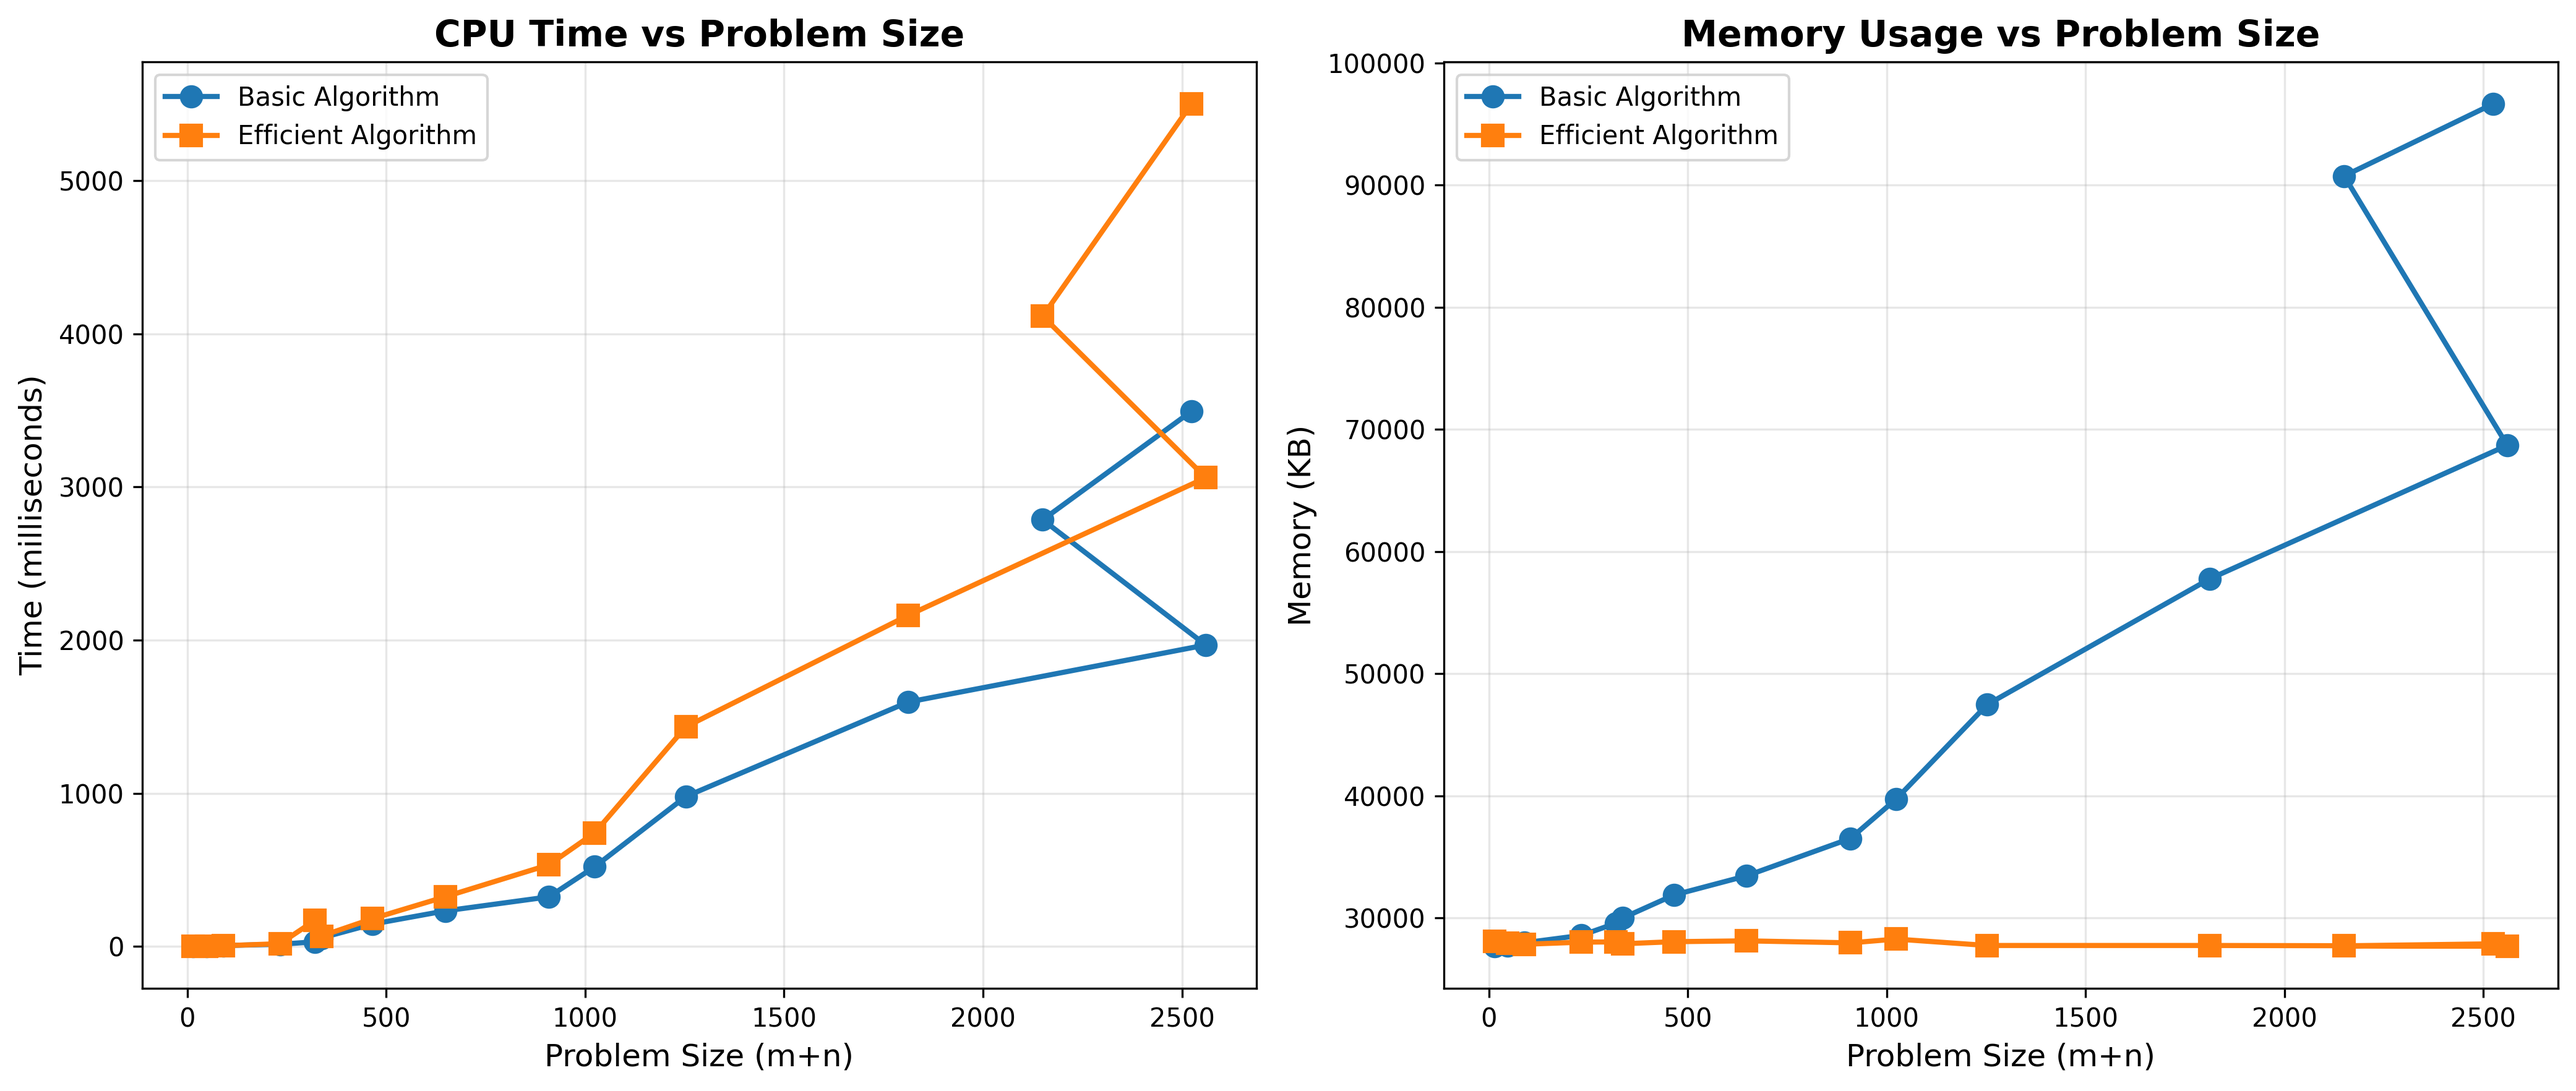
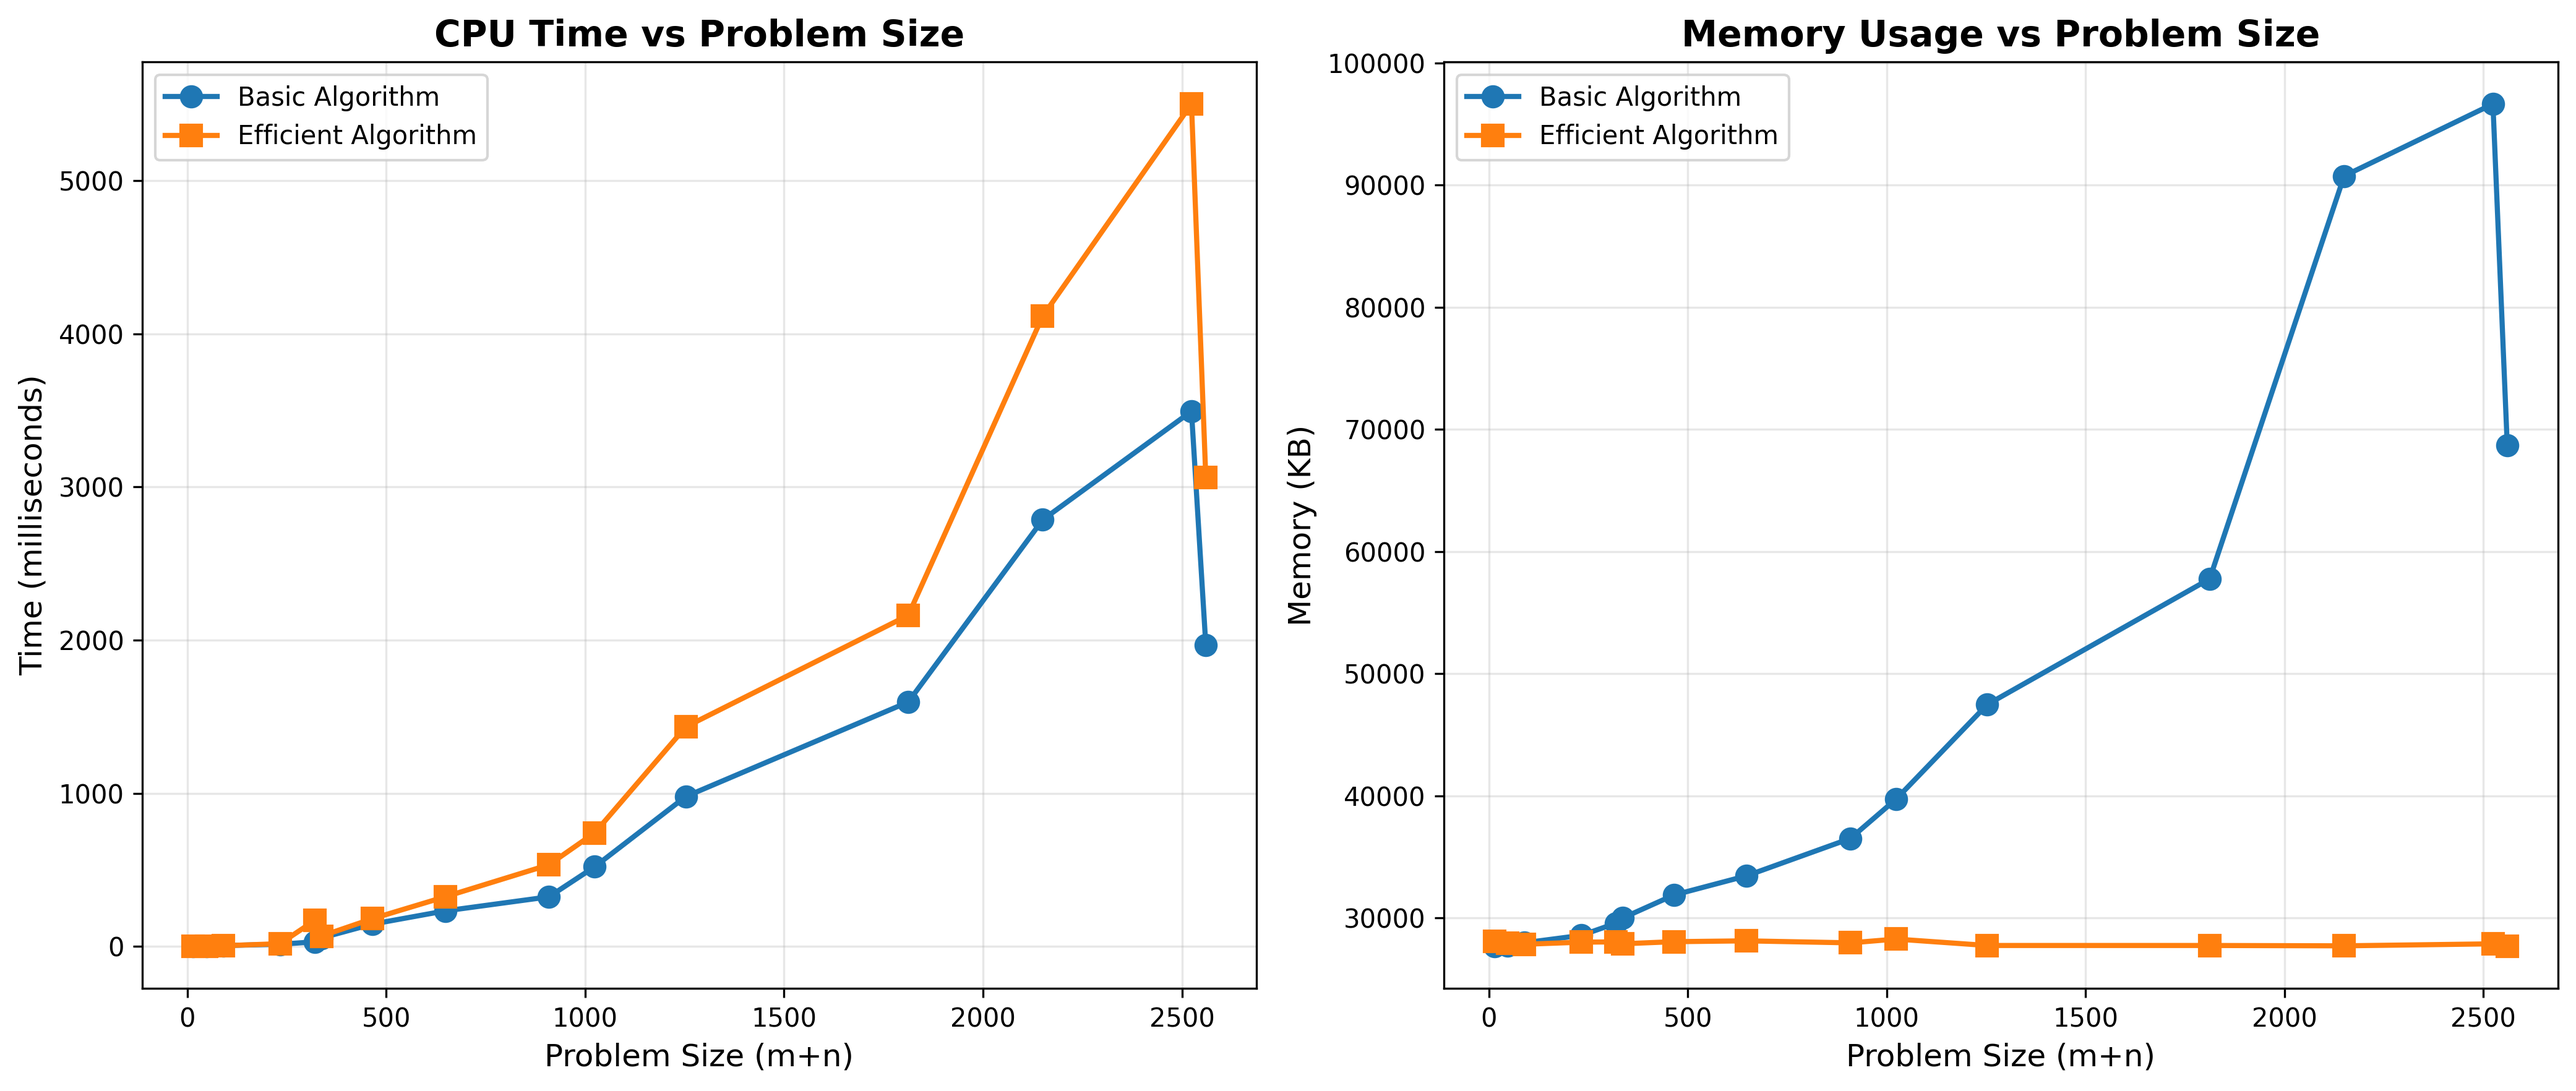
Implement sequence alignment algorithms (basic and efficient)

diff --git a/CSCI570_Project_Minimum_Jul_14/basic.py b/CSCI570_Project_Minimum_Jul_14/basic.py
@@ -1,19 +1,24 @@
 from enum import Enum
-import sys 
-# from resource import * 
+import sys
 import time
-import psutil 
+
+# Use resource module on Linux, psutil on Windows
+try:
+    import resource
+    def process_memory():
+        return resource.getrusage(resource.RUSAGE_SELF).ru_maxrss
+except ImportError:
+    import psutil
+    def process_memory():
+        process = psutil.Process()
+        memory_info = process.memory_info()
+        memory_consumed = int(memory_info.rss/1024)
+        return memory_consumed
 
 class Arrow(Enum):
     MATCH = 0
     SEQ1_GAP = 1
     SEQ2_GAP = 2
-
-def process_memory(): 
-    process = psutil.Process() 
-    memory_info = process.memory_info() 
-    memory_consumed = int(memory_info.rss/1024) 
-    return memory_consumed
 
 def time_wrapper(input_file):
     start_time = time.time()

diff --git a/CSCI570_Project_Minimum_Jul_14/efficient.py b/CSCI570_Project_Minimum_Jul_14/efficient.py
@@ -1,12 +1,18 @@
 import sys
 import time
-import psutil
 
-def process_memory():
-    process = psutil.Process()
-    memory_info = process.memory_info()
-    memory_consumed = int(memory_info.rss/1024)
-    return memory_consumed
+# Use resource module on Linux, psutil on Windows
+try:
+    import resource
+    def process_memory():
+        return resource.getrusage(resource.RUSAGE_SELF).ru_maxrss
+except ImportError:
+    import psutil
+    def process_memory():
+        process = psutil.Process()
+        memory_info = process.memory_info()
+        memory_consumed = int(memory_info.rss/1024)
+        return memory_consumed
 
 def time_wrapper(input_file):
     start_time = time.time()

diff --git a/CSCI570_Project_Minimum_Jul_14/create_plots.py b/CSCI570_Project_Minimum_Jul_14/create_plots.py
@@ -10,7 +10,10 @@ efficient_memory = []
 
 with open('Datapoints/results.csv', 'r') as f:
     reader = csv.DictReader(f)
-    for row in reader:
+    data = list(reader)
+    # Sort by problem size
+    data.sort(key=lambda x: int(x['Problem_Size']))
+    for row in data:
         problem_sizes.append(int(row['Problem_Size']))
         basic_times.append(float(row['Basic_Time_ms']))
         basic_memory.append(float(row['Basic_Memory_KB']))
@@ -89,4 +92,4 @@ print("   - Use Efficient Algorithm: Large inputs or memory-constrained systems"
 
 print("="*80)
 
-plt.show()
+# plt.show()
